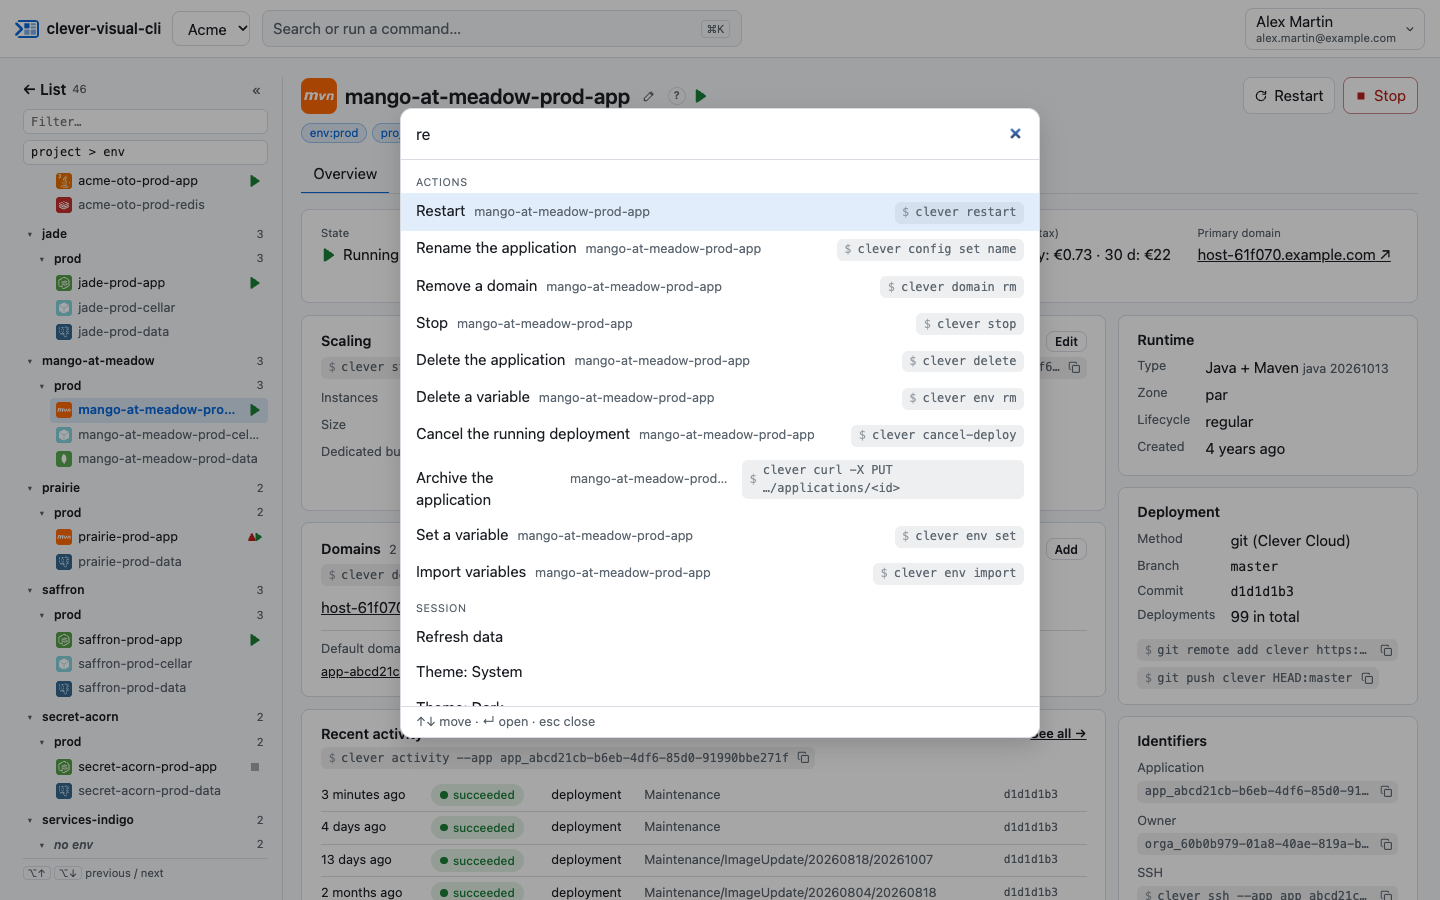
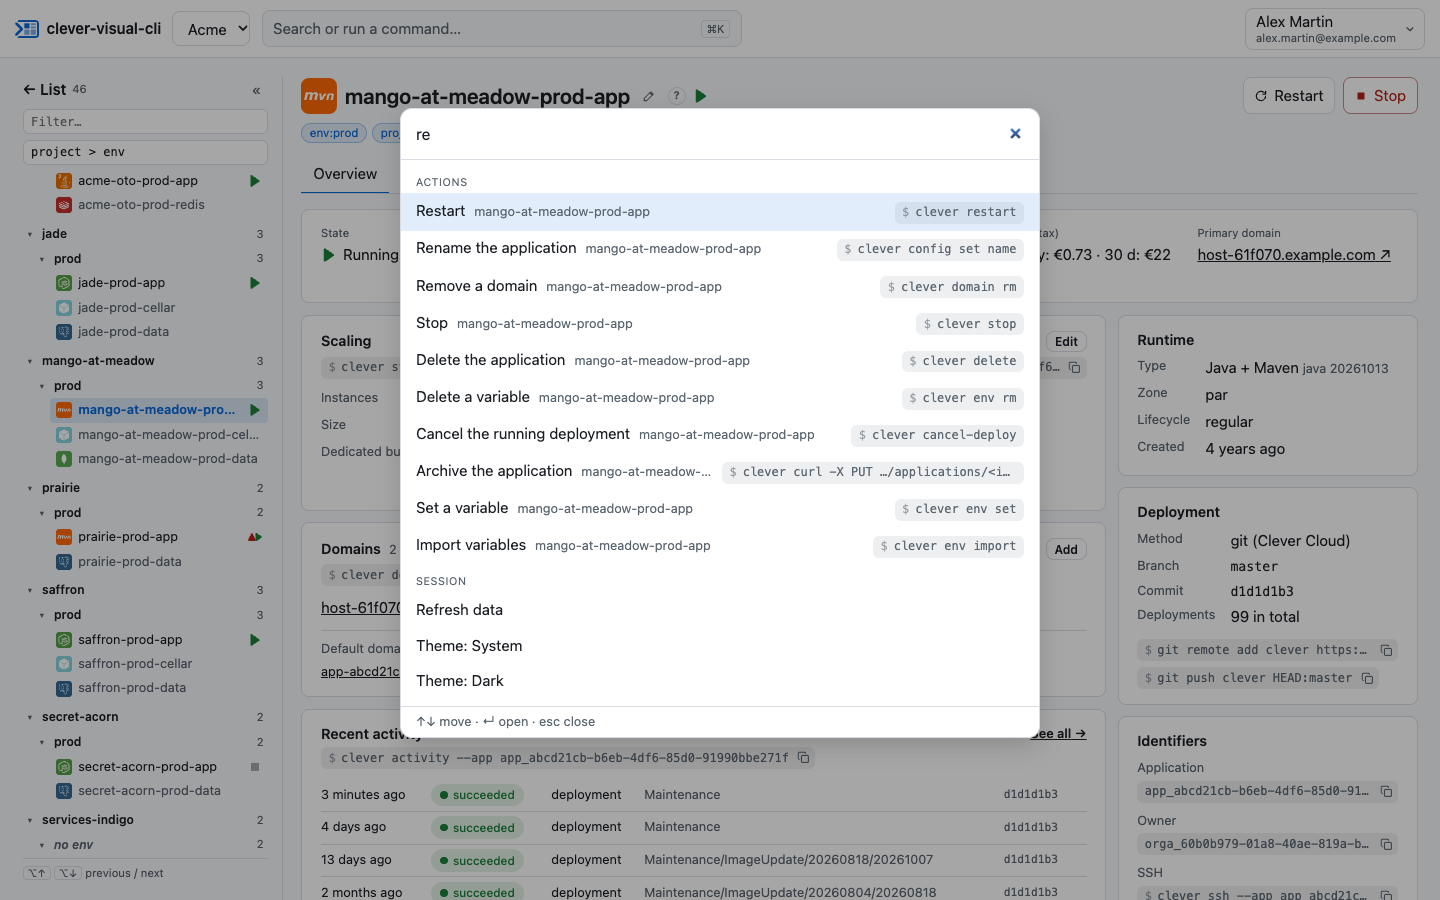
Palette: one line per row, a long command cut
The row of an action whose command is long (`clever curl -X PUT
…/applications/<id>` for archive and unarchive, `…/branch` for the
branch) wrapped its title and its command on two lines each, taller and
out of line with the others. A row now keeps one line: its title whole,
the application name cut first, then the command, which ends with "…"
and is given whole by its tooltip. The palette screenshot is taken again.

Closes #41

Changed region(s): [[0.2812, 0.4978, 0.5, 0.7778], [0.5, 0.4978, 0.6875, 0.56], [0.625, 0.56, 0.7188, 0.6533]]

diff --git a/src/ui/cvc-command-palette.ts b/src/ui/cvc-command-palette.ts
@@ -129,7 +129,11 @@ export class CvcCommandPalette extends CvcElement {
                 >
                   <span class="title">${command.title}</span>
                   ${command.subtitle ? html`<span class="subtitle">${command.subtitle}</span>` : nothing}
-                  ${command.cli ? html`<span class="cli">${command.cli}</span>` : nothing}
+                  ${
+                    command.cli
+                      ? html`<span class="cli" title=${command.cli}><span class="cli-text">${command.cli}</span></span>`
+                      : nothing
+                  }
                 </li>`;
             },
           )}
@@ -201,11 +205,14 @@ export class CvcCommandPalette extends CvcElement {
       li.active {
         background: color-mix(in srgb, var(--cvc-accent) 12%, transparent);
       }
+      /* One line per row (#41): the title whole, then the subtitle cut first, then the command. */
       li .title {
-        flex: 0 1 auto;
+        flex: 0 0 auto;
+        white-space: nowrap;
       }
       li .subtitle {
-        flex: 1 1 auto;
+        flex: 1 100 auto;
+        min-width: 0;
         color: var(--cvc-muted);
         font-size: 0.85rem;
         overflow: hidden;
@@ -213,7 +220,17 @@ export class CvcCommandPalette extends CvcElement {
         white-space: nowrap;
       }
       li .cli {
+        flex: 0 1 auto;
+        min-width: 0;
+        max-width: 50%;
         margin-left: auto;
+        white-space: nowrap;
+      }
+      /* A long command (clever curl …) ends with "…"; its tooltip gives it whole. */
+      li .cli-text {
+        min-width: 0;
+        overflow: hidden;
+        text-overflow: ellipsis;
       }
       li.empty {
         color: var(--cvc-muted);
